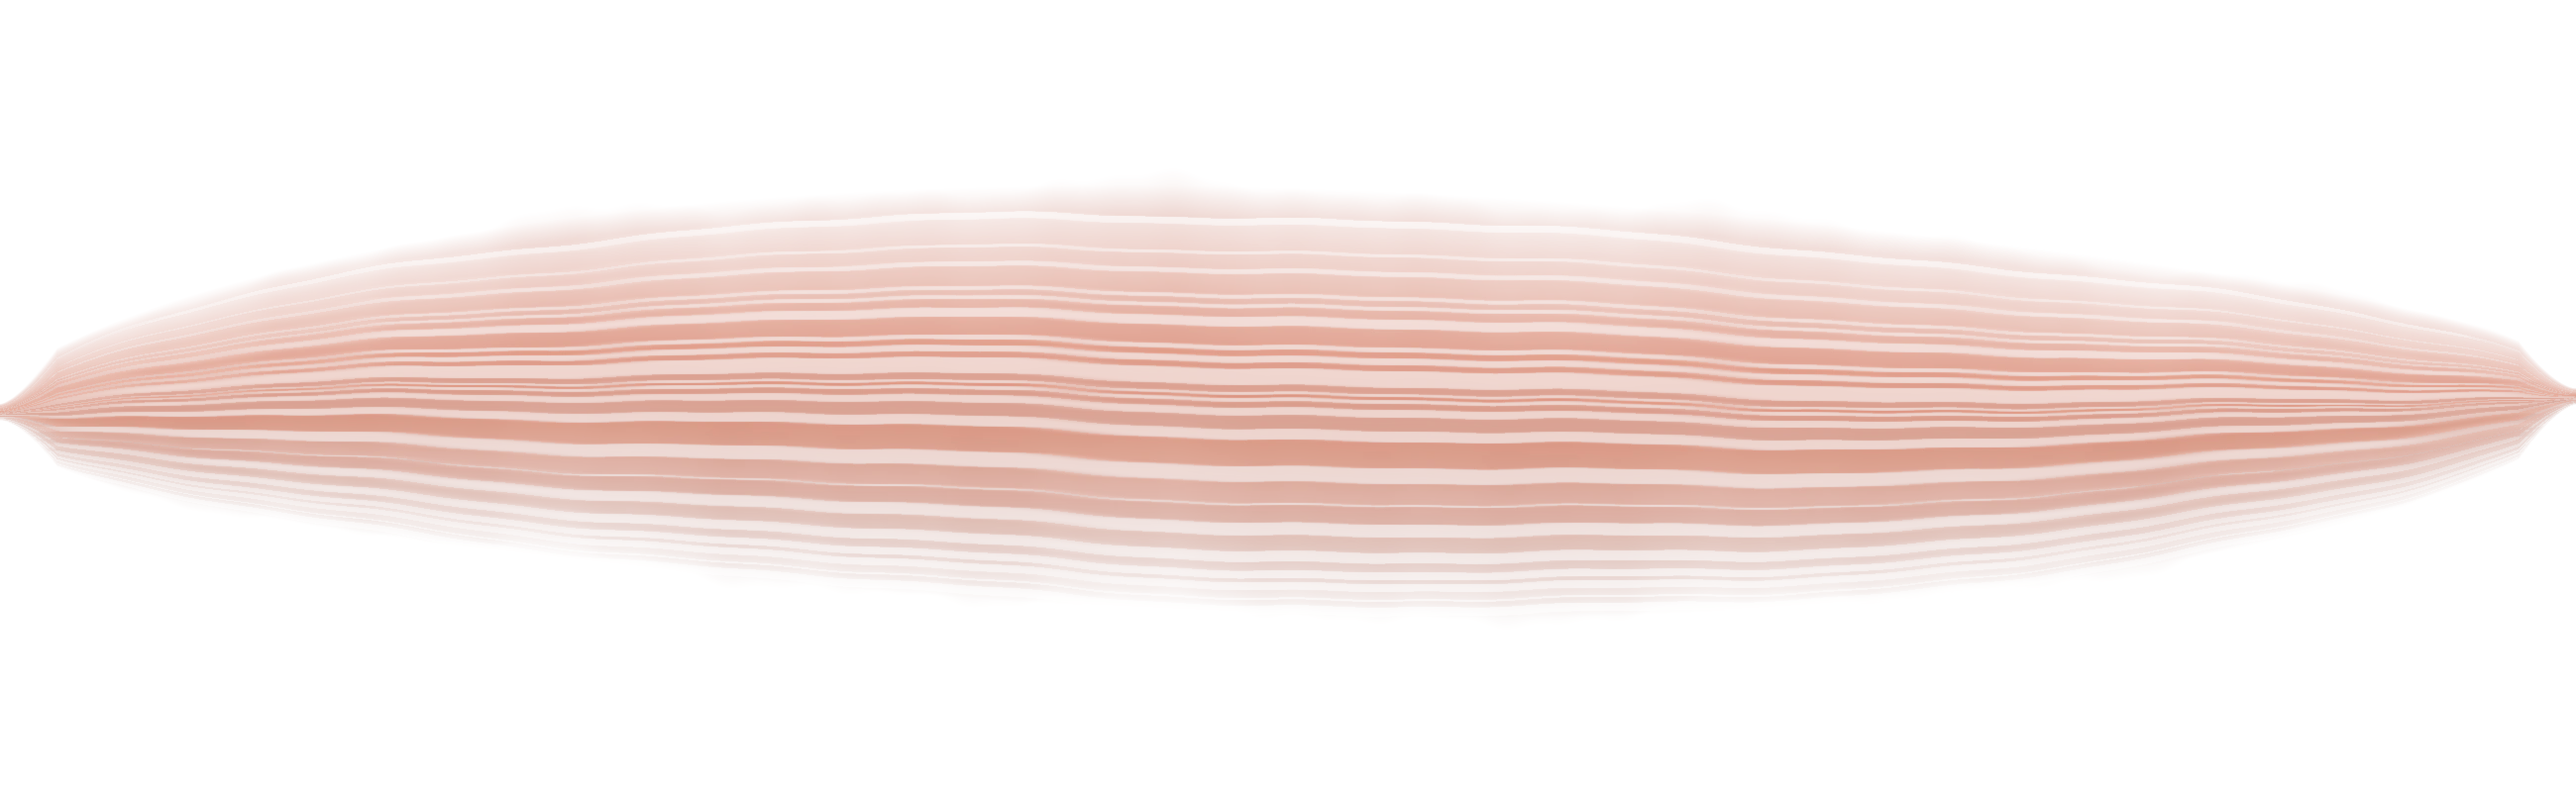
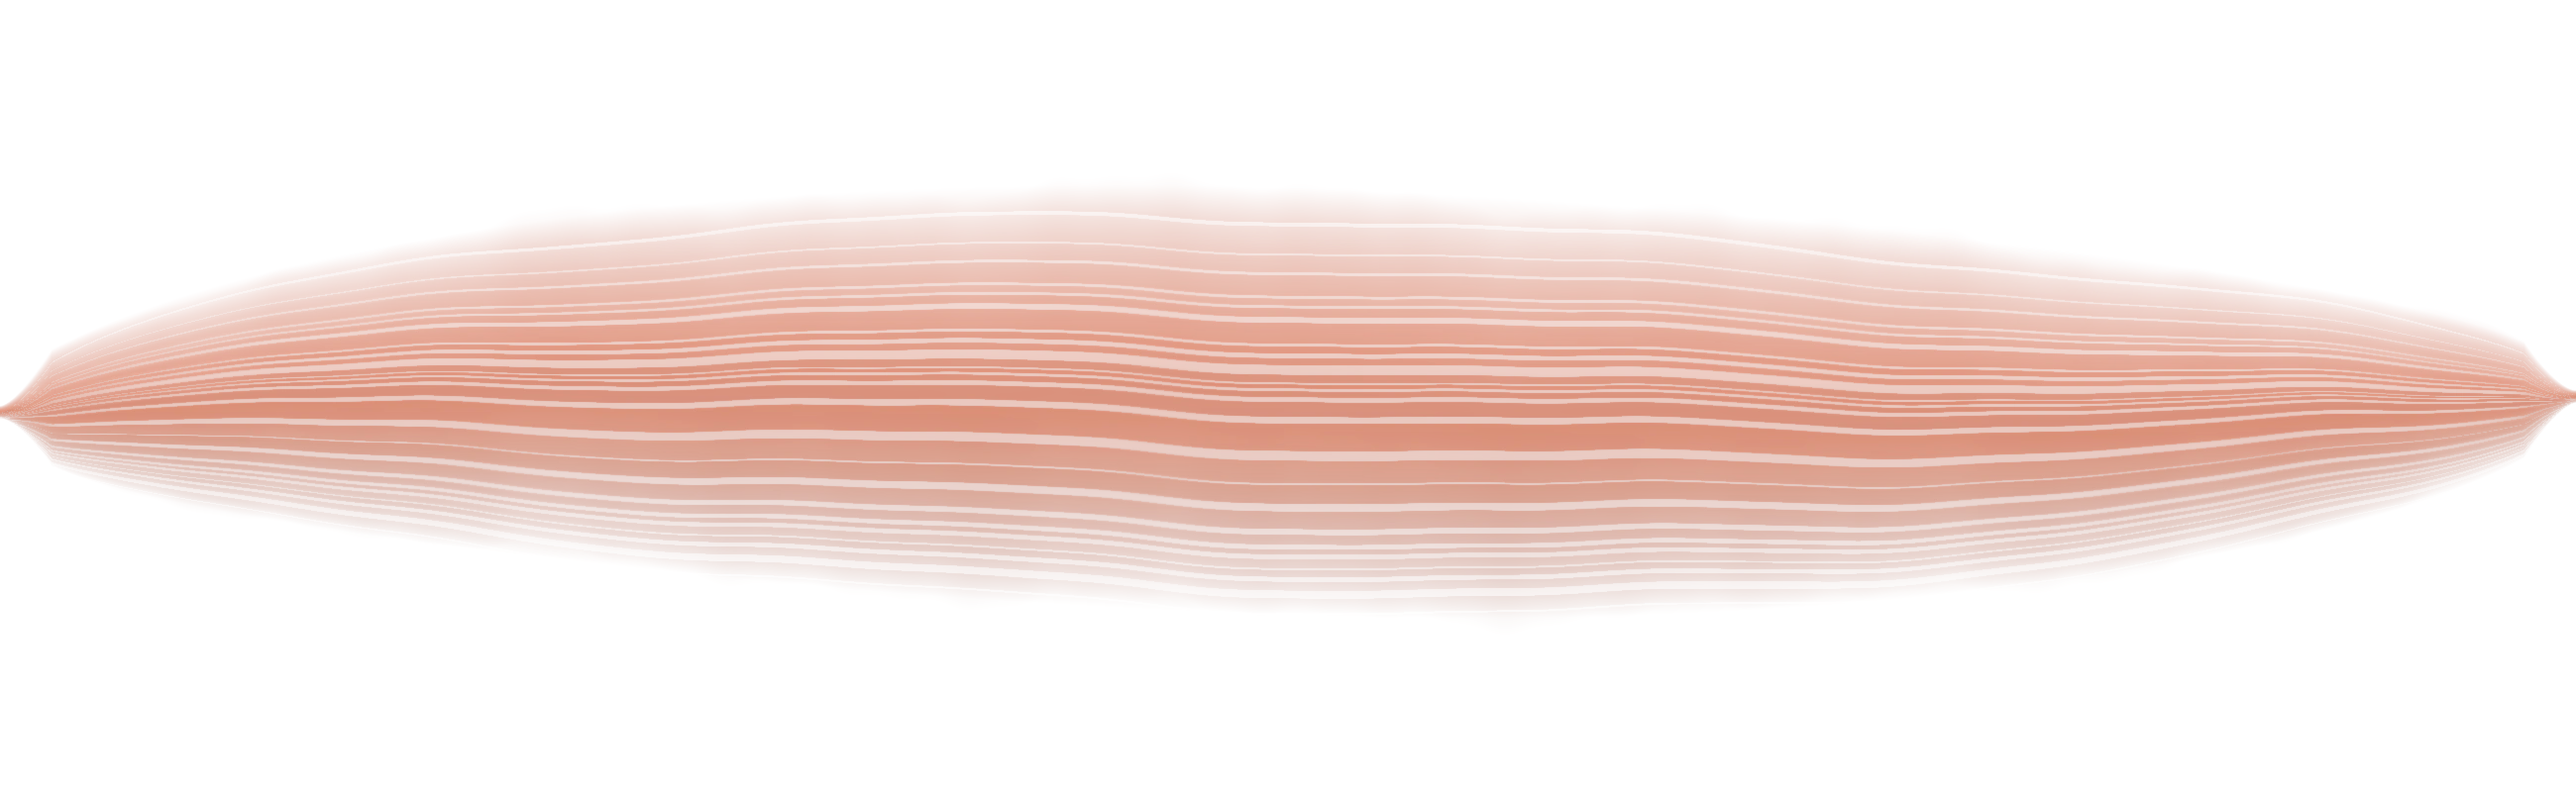
fix stroke opacity, willChange placement, gradient veil; regenerate stroke images

Changed region(s): [[0.0, 0.3125, 1.0, 0.75]]

diff --git a/components/PhotorealBrushStrokes.tsx b/components/PhotorealBrushStrokes.tsx
@@ -16,11 +16,11 @@ type Stroke = {
 export default function PhotorealBrushStrokes() {
   const strokes: Stroke[] = [
     // Stroke 1 — champagne-gold, shifted slightly left, angled gently up-right
-    { src: '/stroke_1.webp', top: '6%',  translateX: '-52%', rotateDeg: -6,  opacity: 0.70, scale: 1.20, driftClass: 'driftA' },
+    { src: '/stroke_1.webp', top: '6%',  translateX: '-52%', rotateDeg: -6,  opacity: 0.82, scale: 1.20, driftClass: 'driftA' },
     // Stroke 2 — blush-rose, shifted slightly right, gentle counter-tilt
-    { src: '/stroke_2.webp', top: '37%', translateX: '-48%', rotateDeg:  4,  opacity: 0.60, scale: 1.16, driftClass: 'driftB' },
+    { src: '/stroke_2.webp', top: '37%', translateX: '-48%', rotateDeg:  4,  opacity: 0.72, scale: 1.16, driftClass: 'driftB' },
     // Stroke 3 — warm taupe, shifted left again, subtle angle
-    { src: '/stroke_3.webp', top: '65%', translateX: '-51%', rotateDeg: -2,  opacity: 0.54, scale: 1.14, driftClass: 'driftC' },
+    { src: '/stroke_3.webp', top: '65%', translateX: '-51%', rotateDeg: -2,  opacity: 0.66, scale: 1.14, driftClass: 'driftC' },
   ];
 
   return (
@@ -37,11 +37,10 @@ export default function PhotorealBrushStrokes() {
             width: '128vw',
             transform: `translateX(${s.translateX}) rotate(${s.rotateDeg}deg) scale(${s.scale})`,
             opacity: s.opacity,
-            willChange: 'transform',
           }}
         >
           {/* Separate inner wrapper carries ONLY the floating drift animation */}
-          <div className={`w-full ${s.driftClass}`}>
+          <div className={`w-full ${s.driftClass}`} style={{ willChange: 'transform' }}>
             <Image
               src={s.src}
               alt=""
@@ -60,10 +59,10 @@ export default function PhotorealBrushStrokes() {
         className="absolute inset-0"
         style={{
           background:
-            'radial-gradient(ellipse 55% 60% at 50% 50%, ' +
-            'rgba(247,241,231,0.82) 0%, ' +
-            'rgba(247,241,231,0.52) 38%, ' +
-            'rgba(247,241,231,0.18) 65%, ' +
+            'radial-gradient(ellipse 58% 62% at 50% 50%, ' +
+            'rgba(247,241,231,0.70) 0%, ' +
+            'rgba(247,241,231,0.42) 38%, ' +
+            'rgba(247,241,231,0.14) 65%, ' +
             'rgba(247,241,231,0.00) 100%)',
         }}
       />
